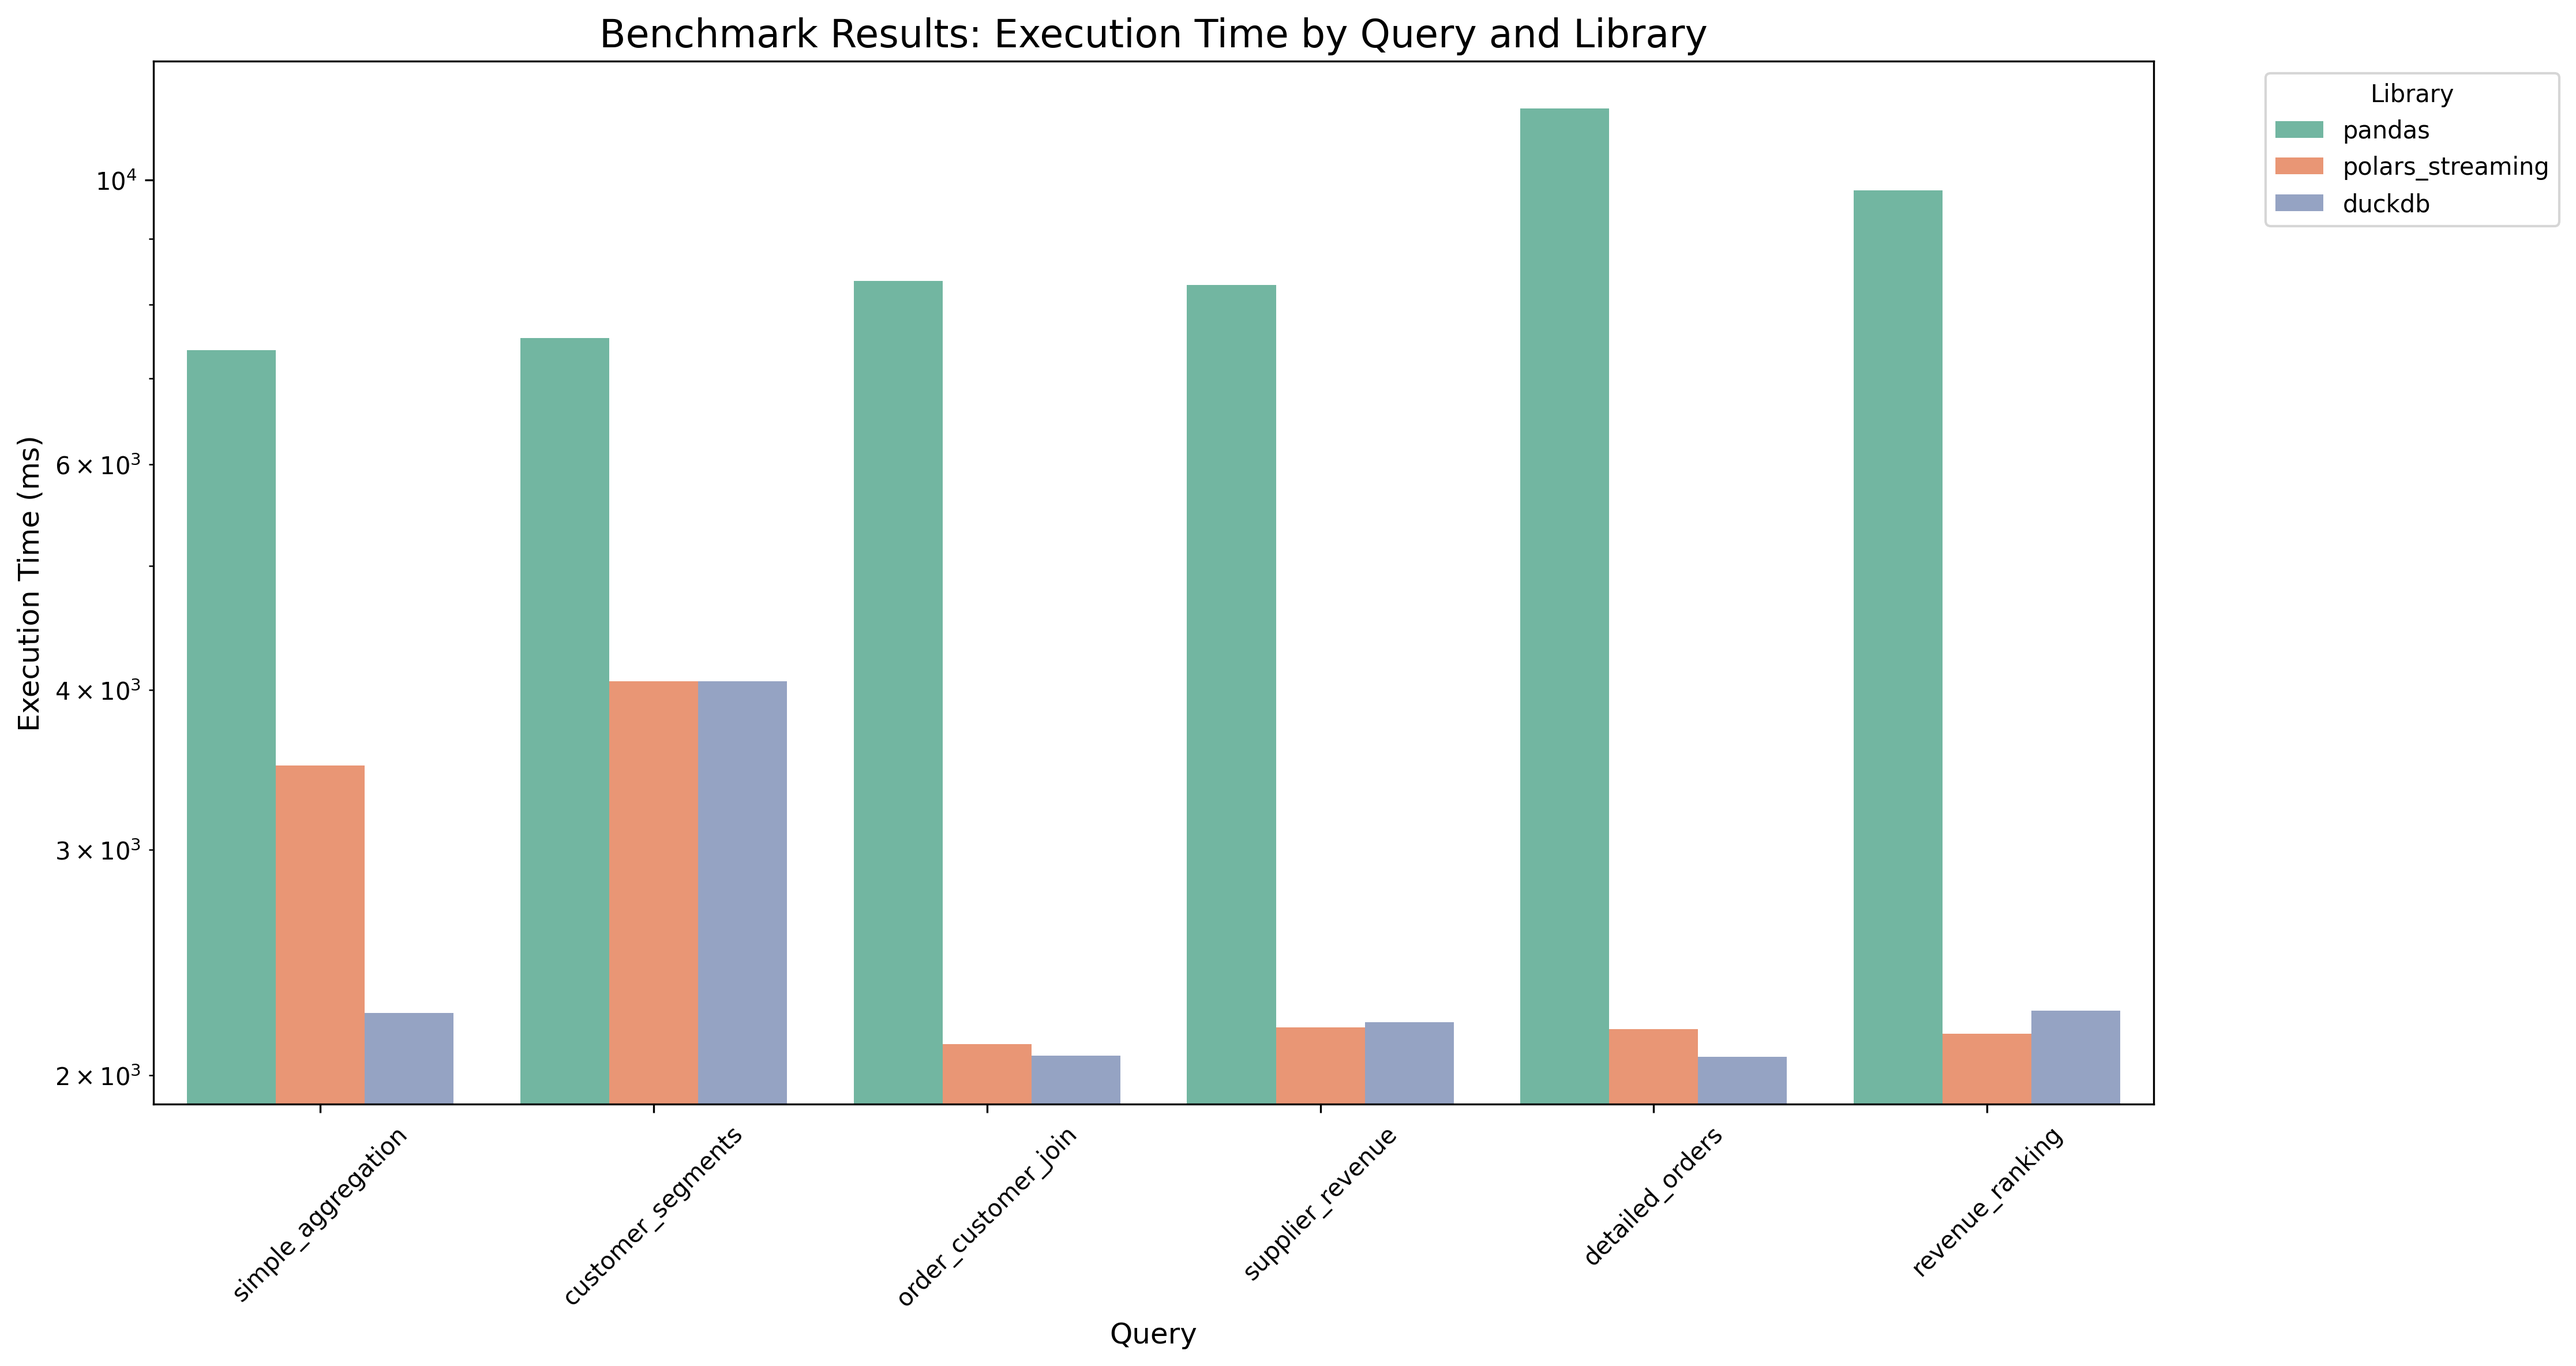
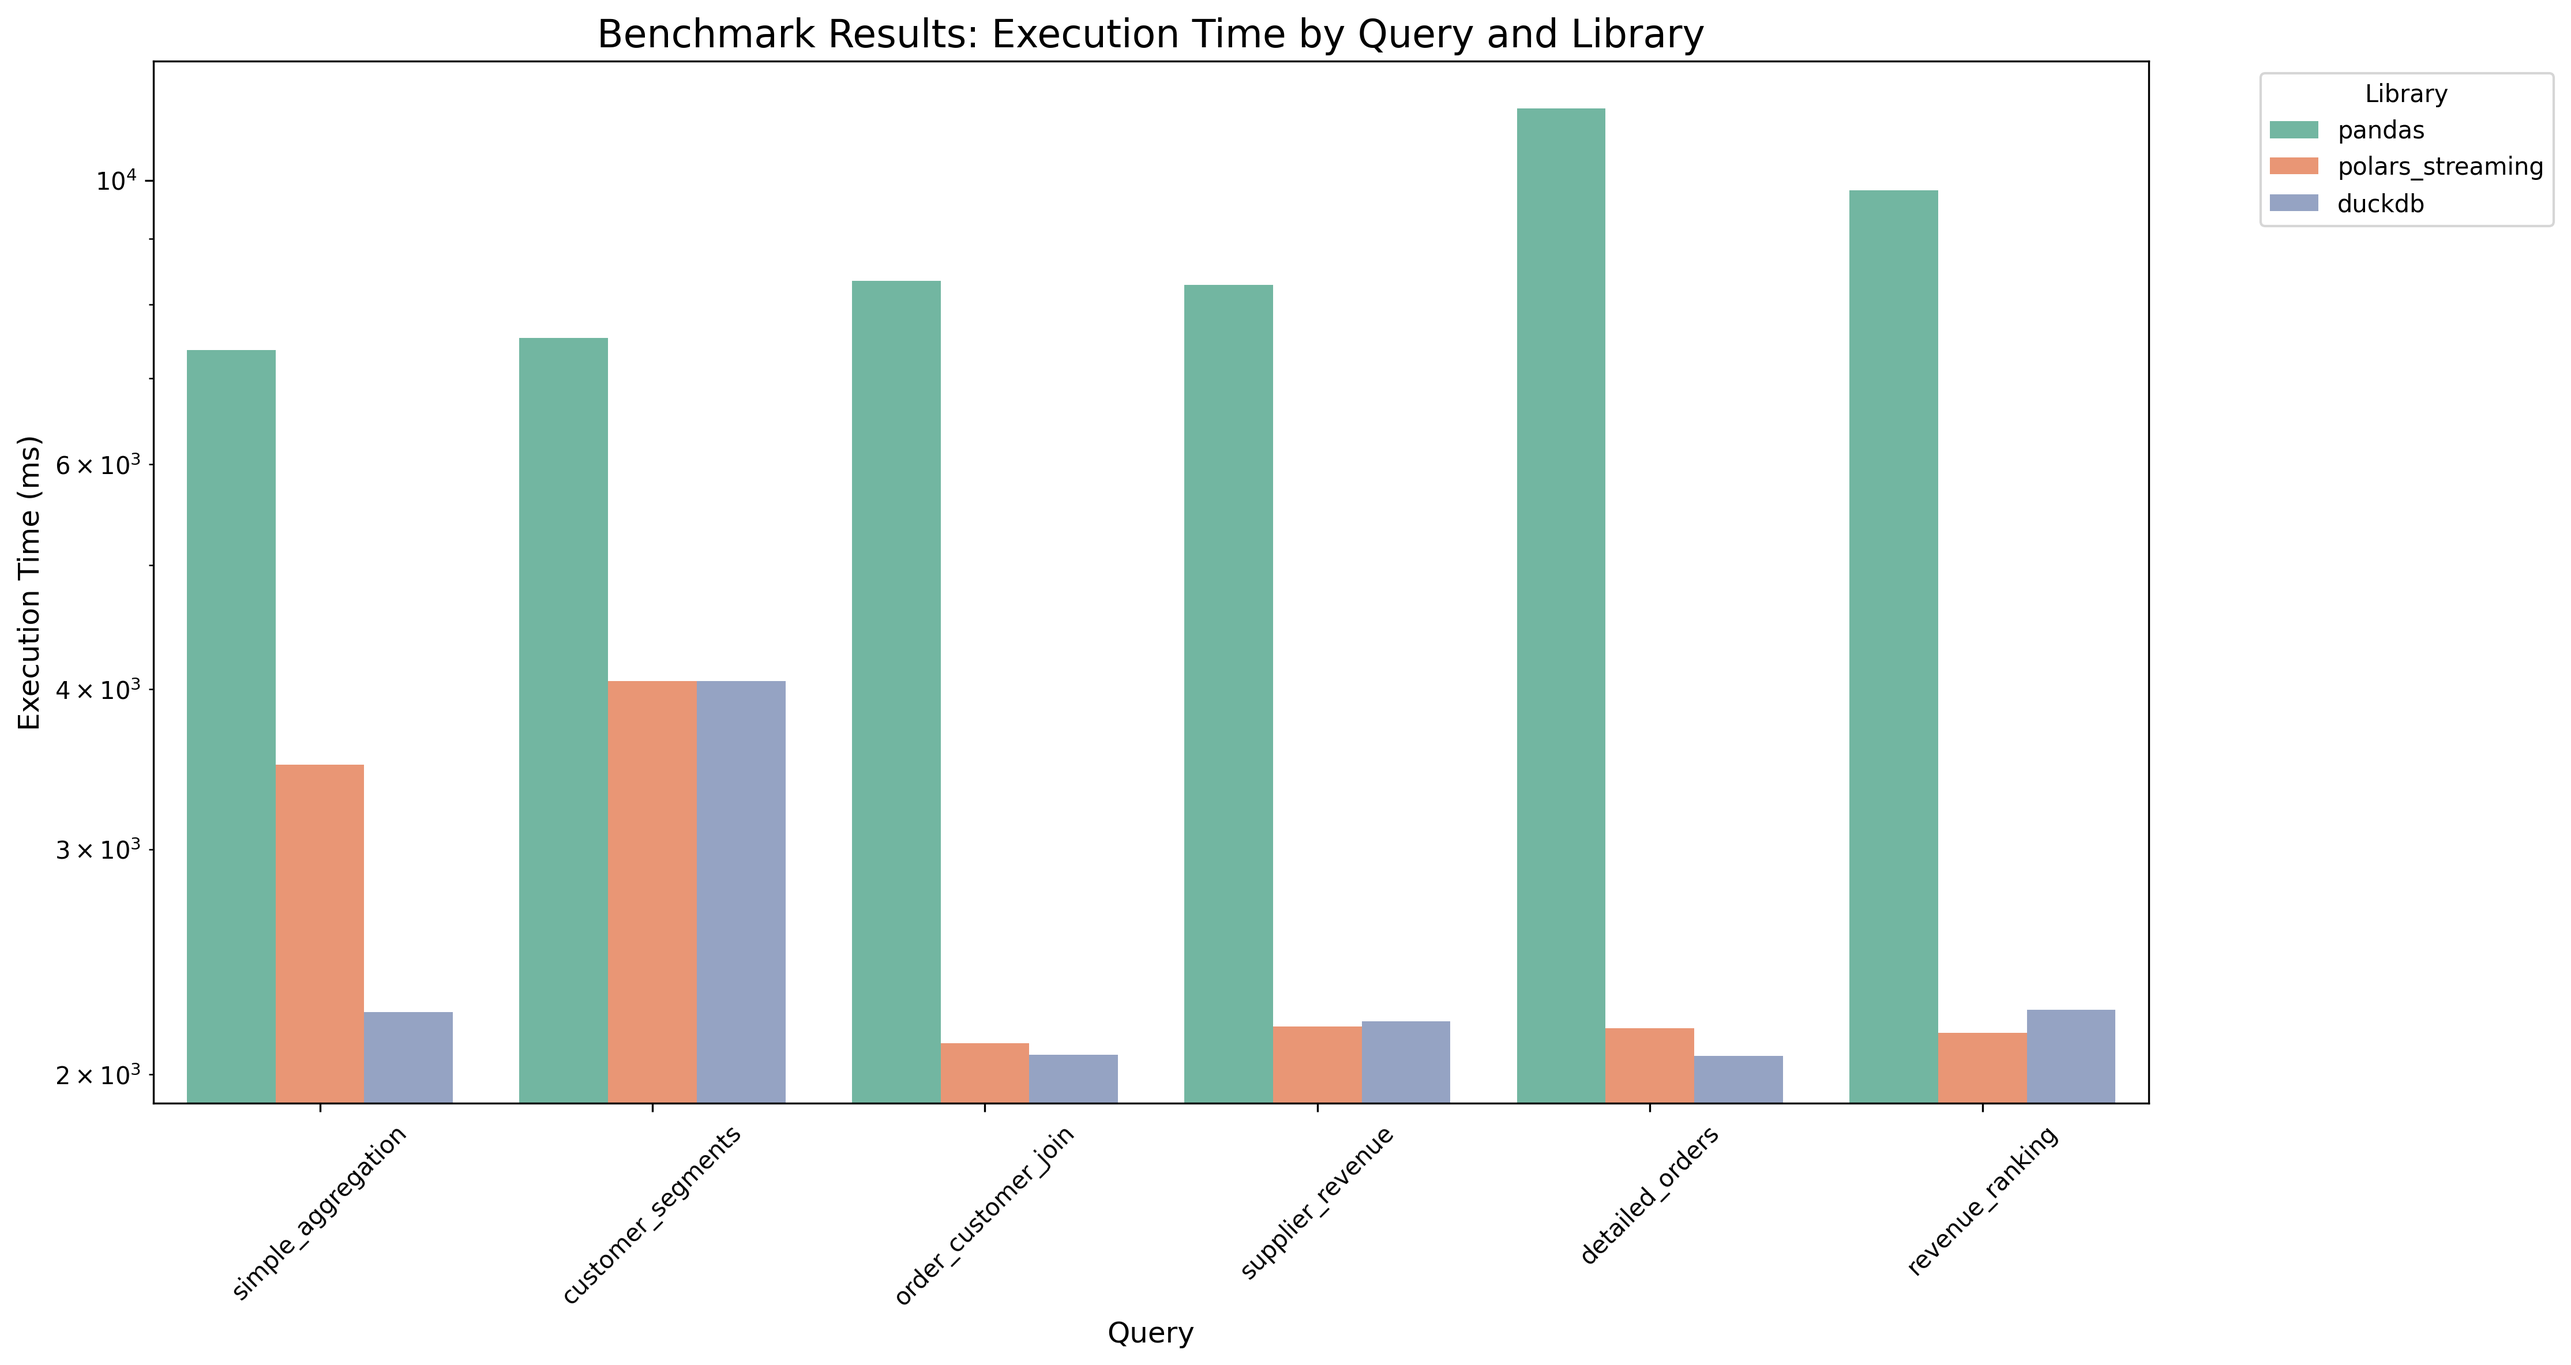
fixup

diff --git a/benchmarks/visualizer.py b/benchmarks/visualizer.py
@@ -1,10 +1,13 @@
 """Visualization tools for benchmark results"""
 
-import polars as pl
-import matplotlib.pyplot as plt
-import seaborn as sns
 from pathlib import Path
 from typing import Optional
+
+import matplotlib.pyplot as plt
+import numpy as np
+import pandas as pd
+import polars as pl
+import seaborn as sns
 
 
 class BenchmarkVisualizer:
@@ -98,28 +101,58 @@ class BenchmarkVisualizer:
         if df is None:
             return
 
-        # Calculate speedup relative to baseline
-        pdf = df.filter(pl.col("execution_time_ms") > 0).to_pandas()
+        # Filter out failed benchmarks and get only successful ones
+        successful_df = df.filter(pl.col("execution_time_ms") > 0)
+        pdf = successful_df.to_pandas()
 
         # Get baseline times
-        baseline_times = pdf[pdf["library"] == baseline].set_index("query_name")[
-            "execution_time_ms"
-        ]
+        baseline_data = pdf[pdf["library"] == baseline]
+        if baseline_data.empty:
+            print(f"No baseline data found for library: {baseline}")
+            return
+
+        baseline_times = baseline_data.set_index("query_name")["execution_time_ms"]
 
         speedup_data = []
-        for _, row in pdf.iterrows():
-            query = row["query_name"]
-            if query in baseline_times.index and row["library"] != baseline:
-                speedup = baseline_times[query] / row["execution_time_ms"]
-                speedup_data.append(
-                    {"query_name": query, "library": row["library"], "speedup": speedup}
-                )
+
+        # Group by library and query to handle the case where some queries might be missing for some libraries
+        libraries = pdf["library"].unique()
+        queries = baseline_times.index.unique()
+
+        for library in libraries:
+            if library == baseline:
+                continue
+
+            library_data = pdf[pdf["library"] == library]
+            library_times = library_data.set_index("query_name")["execution_time_ms"]
+
+            for query in queries:
+                if query in library_times.index:
+                    baseline_time = baseline_times[query]
+                    library_time = library_times[query]
+
+                    if baseline_time > 0 and library_time > 0:
+                        speedup = baseline_time / library_time
+                        # Only include finite, positive speedup values
+                        if pd.notna(speedup) and np.isfinite(speedup) and speedup > 0:
+                            speedup_data.append(
+                                {
+                                    "query_name": query,
+                                    "library": library,
+                                    "speedup": speedup,
+                                }
+                            )
 
         if not speedup_data:
             print(f"No speedup data available for baseline: {baseline}")
             return
 
         speedup_df = pl.DataFrame(speedup_data).to_pandas()
+
+        # Ensure we have consistent data types
+        speedup_df["speedup"] = speedup_df["speedup"].astype(float)
+        speedup_df["query_name"] = speedup_df["query_name"].astype(str)
+        speedup_df["library"] = speedup_df["library"].astype(str)
 
         plt.figure(figsize=(15, 8))
 
